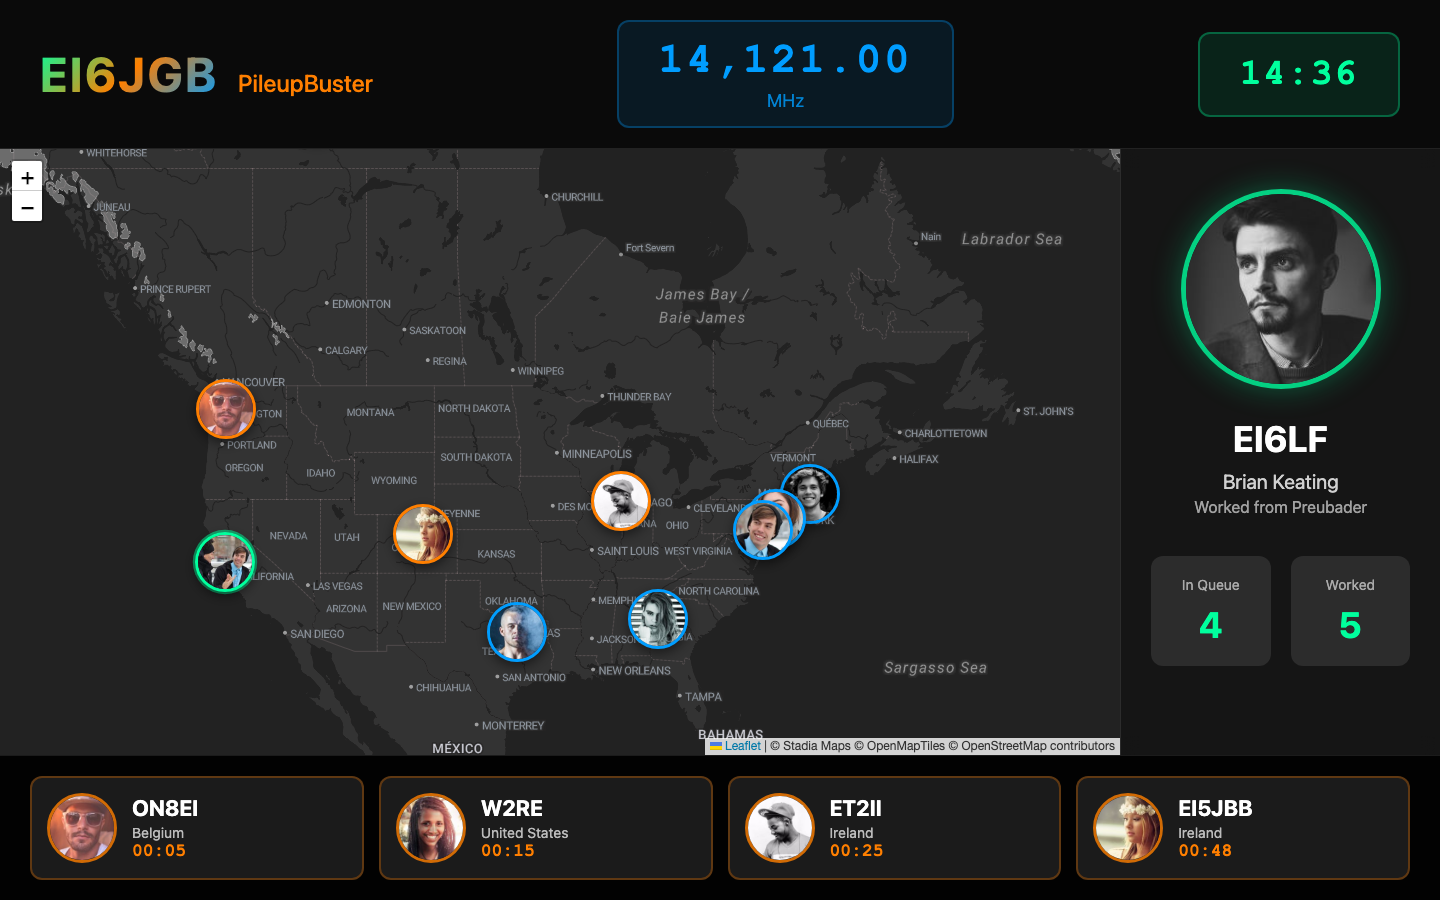
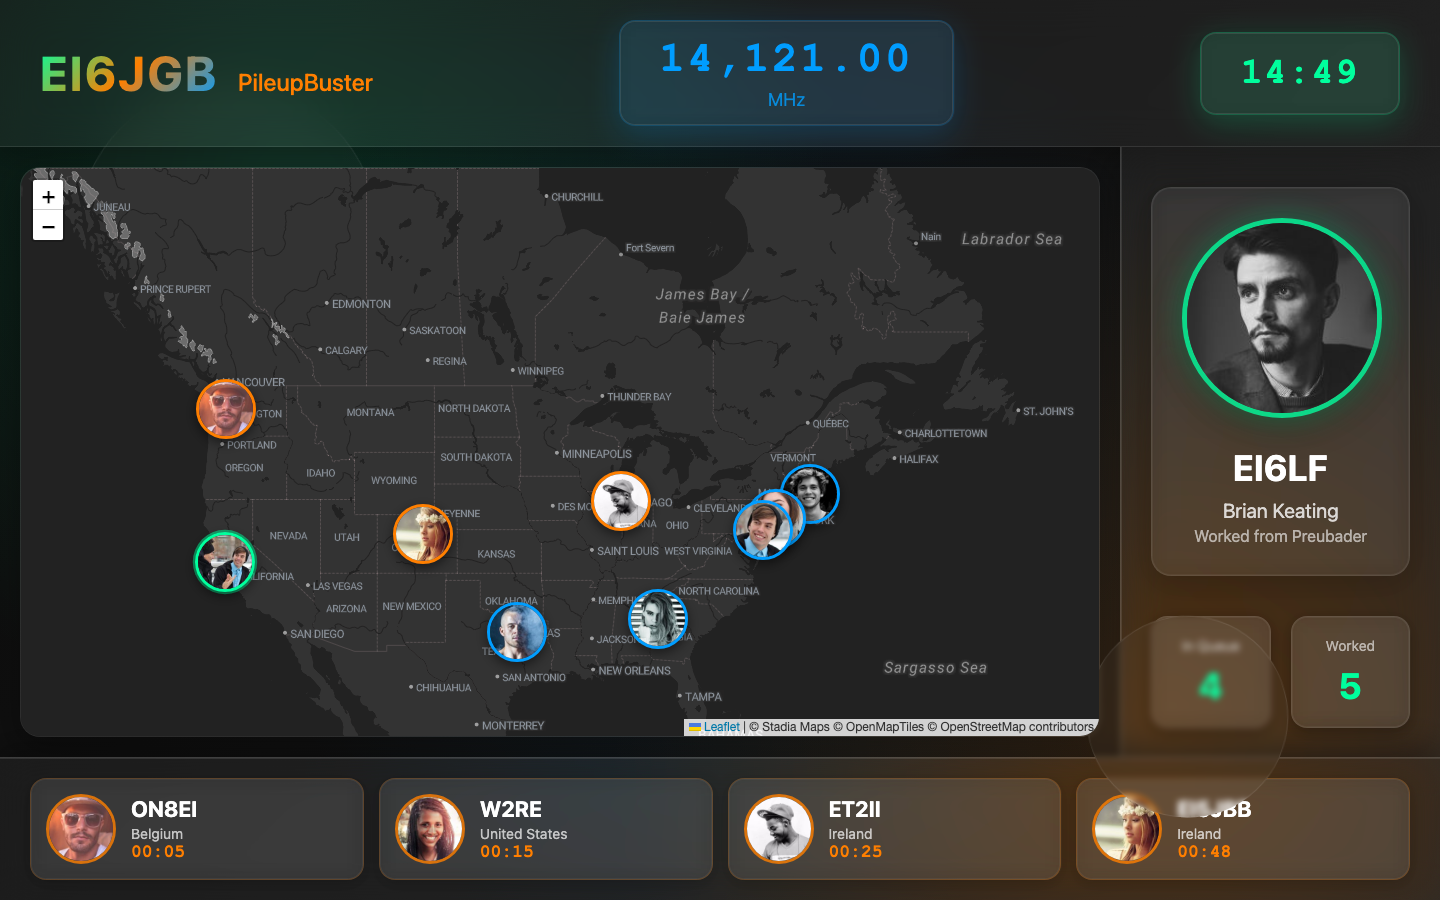
Enhance design with full glassmorphic effects
- Added frosted glass effect with backdrop blur to all panels
- Implemented floating glass particles with animation
- Enhanced transparency and layering throughout the UI
- Added shimmer animation to current operator card
- Improved all panels with glass morphism properties:
  - Semi-transparent backgrounds with blur
  - Subtle borders and inset shadows
  - Light reflections and gradients
- Updated map container with rounded corners and glass border
- Made Leaflet popups glassmorphic
- Added gradient overlays for depth
- Improved color scheme for better contrast on glass surfaces

🤖 Generated with [Claude Code](https://claude.ai/code)

diff --git a/public/css/style.css b/public/css/style.css
@@ -7,10 +7,66 @@
 
 body {
     font-family: -apple-system, BlinkMacSystemFont, 'Segoe UI', Roboto, sans-serif;
-    background: #1a1a1a;
+    background: #0a0a0a;
     color: #ffffff;
     overflow: hidden;
     height: 100vh;
+    position: relative;
+}
+
+body::before {
+    content: '';
+    position: fixed;
+    top: 0;
+    left: 0;
+    right: 0;
+    bottom: 0;
+    background: 
+        radial-gradient(circle at 20% 20%, rgba(0, 255, 157, 0.15) 0%, transparent 40%),
+        radial-gradient(circle at 80% 80%, rgba(255, 127, 0, 0.15) 0%, transparent 40%),
+        radial-gradient(circle at 50% 50%, rgba(0, 157, 255, 0.1) 0%, transparent 60%),
+        linear-gradient(135deg, #0a0a0a 0%, #1a1a1a 100%);
+    z-index: -1;
+}
+
+/* Floating glass particles */
+.container::before,
+.container::after {
+    content: '';
+    position: fixed;
+    border-radius: 50%;
+    background: rgba(255, 255, 255, 0.03);
+    backdrop-filter: blur(3px);
+    -webkit-backdrop-filter: blur(3px);
+    border: 1px solid rgba(255, 255, 255, 0.1);
+}
+
+.container::before {
+    width: 300px;
+    height: 300px;
+    top: 10%;
+    left: 5%;
+    animation: float 20s infinite ease-in-out;
+}
+
+.container::after {
+    width: 200px;
+    height: 200px;
+    bottom: 10%;
+    right: 10%;
+    animation: float 15s infinite ease-in-out reverse;
+}
+
+@keyframes float {
+    0%, 100% {
+        transform: translateY(0) translateX(0) rotate(0deg);
+    }
+    33% {
+        transform: translateY(-30px) translateX(20px) rotate(120deg);
+    }
+    66% {
+        transform: translateY(20px) translateX(-20px) rotate(240deg);
+    }
 }
 
 .container {
@@ -18,7 +74,8 @@ body {
     height: 100vh;
     display: flex;
     flex-direction: column;
-    background: #1a1a1a;
+    position: relative;
+    z-index: 1;
 }
 
 /* Top Header */
@@ -27,8 +84,11 @@ body {
     justify-content: space-between;
     align-items: center;
     padding: 20px 40px;
-    background: #0a0a0a;
+    background: rgba(255, 255, 255, 0.05);
+    backdrop-filter: blur(20px);
+    -webkit-backdrop-filter: blur(20px);
     border-bottom: 1px solid rgba(255, 255, 255, 0.1);
+    box-shadow: 0 8px 32px 0 rgba(0, 0, 0, 0.37);
 }
 
 .logo-section {
@@ -55,10 +115,15 @@ body {
 
 .frequency-section {
     background: rgba(0, 157, 255, 0.1);
-    border: 2px solid rgba(0, 157, 255, 0.3);
-    border-radius: 12px;
+    backdrop-filter: blur(10px);
+    -webkit-backdrop-filter: blur(10px);
+    border: 1px solid rgba(0, 157, 255, 0.2);
+    border-radius: 16px;
     padding: 15px 40px;
     text-align: center;
+    box-shadow: 
+        0 8px 32px 0 rgba(0, 157, 255, 0.2),
+        inset 0 0 0 1px rgba(255, 255, 255, 0.1);
 }
 
 .frequency-value {
@@ -77,9 +142,14 @@ body {
 
 .clock-section {
     background: rgba(0, 255, 157, 0.1);
-    border: 2px solid rgba(0, 255, 157, 0.3);
-    border-radius: 12px;
+    backdrop-filter: blur(10px);
+    -webkit-backdrop-filter: blur(10px);
+    border: 1px solid rgba(0, 255, 157, 0.2);
+    border-radius: 16px;
     padding: 20px 40px;
+    box-shadow: 
+        0 8px 32px 0 rgba(0, 255, 157, 0.2),
+        inset 0 0 0 1px rgba(255, 255, 255, 0.1);
 }
 
 .clock {
@@ -101,24 +171,47 @@ body {
 .map-section {
     flex: 1;
     position: relative;
+    padding: 20px;
 }
 
 .map-container {
     width: 100%;
     height: 100%;
-    background: #0a0a0a;
+    background: rgba(255, 255, 255, 0.03);
+    border-radius: 20px;
+    overflow: hidden;
+    border: 1px solid rgba(255, 255, 255, 0.1);
+    box-shadow: 
+        0 8px 32px 0 rgba(0, 0, 0, 0.37),
+        inset 0 0 0 1px rgba(255, 255, 255, 0.05);
+    position: relative;
+}
+
+.map-container::before {
+    content: '';
+    position: absolute;
+    top: 0;
+    left: 0;
+    right: 0;
+    height: 100px;
+    background: linear-gradient(to bottom, rgba(255, 255, 255, 0.05) 0%, transparent 100%);
+    pointer-events: none;
+    z-index: 1;
 }
 
 /* Sidebar */
 .sidebar {
     width: 320px;
-    background: rgba(20, 20, 20, 0.9);
-    backdrop-filter: blur(10px);
-    -webkit-backdrop-filter: blur(10px);
-    border-left: 1px solid rgba(255, 255, 255, 0.1);
+    background: rgba(255, 255, 255, 0.05);
+    backdrop-filter: blur(20px) saturate(180%);
+    -webkit-backdrop-filter: blur(20px) saturate(180%);
+    border-left: 1px solid rgba(255, 255, 255, 0.15);
     display: flex;
     flex-direction: column;
     padding: 40px 30px;
+    box-shadow: 
+        -10px 0 40px 0 rgba(0, 0, 0, 0.3),
+        inset 1px 0 0 0 rgba(255, 255, 255, 0.1);
 }
 
 /* Current Operator Section */
@@ -128,6 +221,42 @@ body {
 
 .current-operator-card {
     text-align: center;
+    background: rgba(255, 255, 255, 0.05);
+    backdrop-filter: blur(10px);
+    -webkit-backdrop-filter: blur(10px);
+    border-radius: 20px;
+    padding: 30px;
+    border: 1px solid rgba(255, 255, 255, 0.1);
+    box-shadow: 
+        0 8px 32px 0 rgba(0, 0, 0, 0.2),
+        inset 0 0 0 1px rgba(255, 255, 255, 0.05);
+    position: relative;
+    overflow: hidden;
+}
+
+.current-operator-card::before {
+    content: '';
+    position: absolute;
+    top: -50%;
+    left: -50%;
+    width: 200%;
+    height: 200%;
+    background: linear-gradient(
+        45deg,
+        transparent 30%,
+        rgba(255, 255, 255, 0.05) 50%,
+        transparent 70%
+    );
+    animation: shimmer 3s infinite;
+}
+
+@keyframes shimmer {
+    0% {
+        transform: translateX(-100%) translateY(-100%) rotate(45deg);
+    }
+    100% {
+        transform: translateX(100%) translateY(100%) rotate(45deg);
+    }
 }
 
 .current-operator-image {
@@ -137,7 +266,9 @@ body {
     border: 5px solid rgba(0, 255, 157, 0.8);
     margin-bottom: 25px;
     object-fit: cover;
-    box-shadow: 0 0 30px rgba(0, 255, 157, 0.3);
+    box-shadow: 
+        0 0 30px rgba(0, 255, 157, 0.3),
+        0 8px 32px 0 rgba(0, 0, 0, 0.37);
 }
 
 .current-operator-info h2 {
@@ -166,11 +297,17 @@ body {
 }
 
 .stat-item {
-    background: rgba(255, 255, 255, 0.1);
-    border-radius: 12px;
+    background: rgba(255, 255, 255, 0.08);
+    backdrop-filter: blur(10px);
+    -webkit-backdrop-filter: blur(10px);
+    border: 1px solid rgba(255, 255, 255, 0.1);
+    border-radius: 16px;
     padding: 20px;
     text-align: center;
     flex: 1;
+    box-shadow: 
+        0 4px 16px 0 rgba(0, 0, 0, 0.3),
+        inset 0 0 0 1px rgba(255, 255, 255, 0.05);
 }
 
 .stat-label {
@@ -192,8 +329,13 @@ body {
     display: flex;
     gap: 15px;
     padding: 20px 30px;
-    background: rgba(0, 0, 0, 0.9);
-    border-top: 1px solid rgba(255, 255, 255, 0.1);
+    background: rgba(255, 255, 255, 0.05);
+    backdrop-filter: blur(20px) saturate(180%);
+    -webkit-backdrop-filter: blur(20px) saturate(180%);
+    border-top: 1px solid rgba(255, 255, 255, 0.15);
+    box-shadow: 
+        0 -8px 32px 0 rgba(0, 0, 0, 0.37),
+        inset 0 1px 0 0 rgba(255, 255, 255, 0.1);
 }
 
 .queue-card {
@@ -201,17 +343,43 @@ body {
     display: flex;
     align-items: center;
     gap: 15px;
-    background: rgba(30, 30, 30, 0.9);
-    border: 2px solid rgba(255, 127, 0, 0.3);
-    border-radius: 12px;
+    background: rgba(255, 255, 255, 0.08);
+    backdrop-filter: blur(10px);
+    -webkit-backdrop-filter: blur(10px);
+    border: 1px solid rgba(255, 127, 0, 0.2);
+    border-radius: 16px;
     padding: 15px;
     transition: all 0.3s ease;
+    box-shadow: 
+        0 4px 16px 0 rgba(0, 0, 0, 0.2),
+        inset 0 0 0 1px rgba(255, 255, 255, 0.05);
+    position: relative;
+    overflow: hidden;
+}
+
+.queue-card::before {
+    content: '';
+    position: absolute;
+    top: 0;
+    left: 0;
+    right: 0;
+    bottom: 0;
+    background: linear-gradient(135deg, rgba(255, 255, 255, 0.1) 0%, transparent 60%);
+    opacity: 0;
+    transition: opacity 0.3s ease;
 }
 
 .queue-card:hover {
-    background: rgba(255, 127, 0, 0.15);
-    border-color: rgba(255, 127, 0, 0.5);
+    background: rgba(255, 127, 0, 0.12);
+    border-color: rgba(255, 127, 0, 0.4);
     transform: translateY(-2px);
+    box-shadow: 
+        0 8px 24px 0 rgba(255, 127, 0, 0.2),
+        inset 0 0 0 1px rgba(255, 255, 255, 0.1);
+}
+
+.queue-card:hover::before {
+    opacity: 1;
 }
 
 .queue-image {
@@ -298,14 +466,30 @@ body {
 }
 
 .leaflet-popup-content-wrapper {
-    background: rgba(0, 0, 0, 0.9);
+    background: rgba(255, 255, 255, 0.08) !important;
+    backdrop-filter: blur(10px);
+    -webkit-backdrop-filter: blur(10px);
     color: #ffffff;
-    border-radius: 12px;
-    border: 1px solid rgba(255, 255, 255, 0.1);
+    border-radius: 16px;
+    border: 1px solid rgba(255, 255, 255, 0.15);
+    box-shadow: 
+        0 8px 32px 0 rgba(0, 0, 0, 0.37),
+        inset 0 0 0 1px rgba(255, 255, 255, 0.05);
 }
 
 .leaflet-popup-tip {
-    background: rgba(0, 0, 0, 0.9);
+    background: rgba(255, 255, 255, 0.08) !important;
+    backdrop-filter: blur(10px);
+    -webkit-backdrop-filter: blur(10px);
+    border: 1px solid rgba(255, 255, 255, 0.15);
+}
+
+.leaflet-popup-close-button {
+    color: rgba(255, 255, 255, 0.8) !important;
+}
+
+.leaflet-popup-close-button:hover {
+    color: #ffffff !important;
 }
 
 .map-popup {
